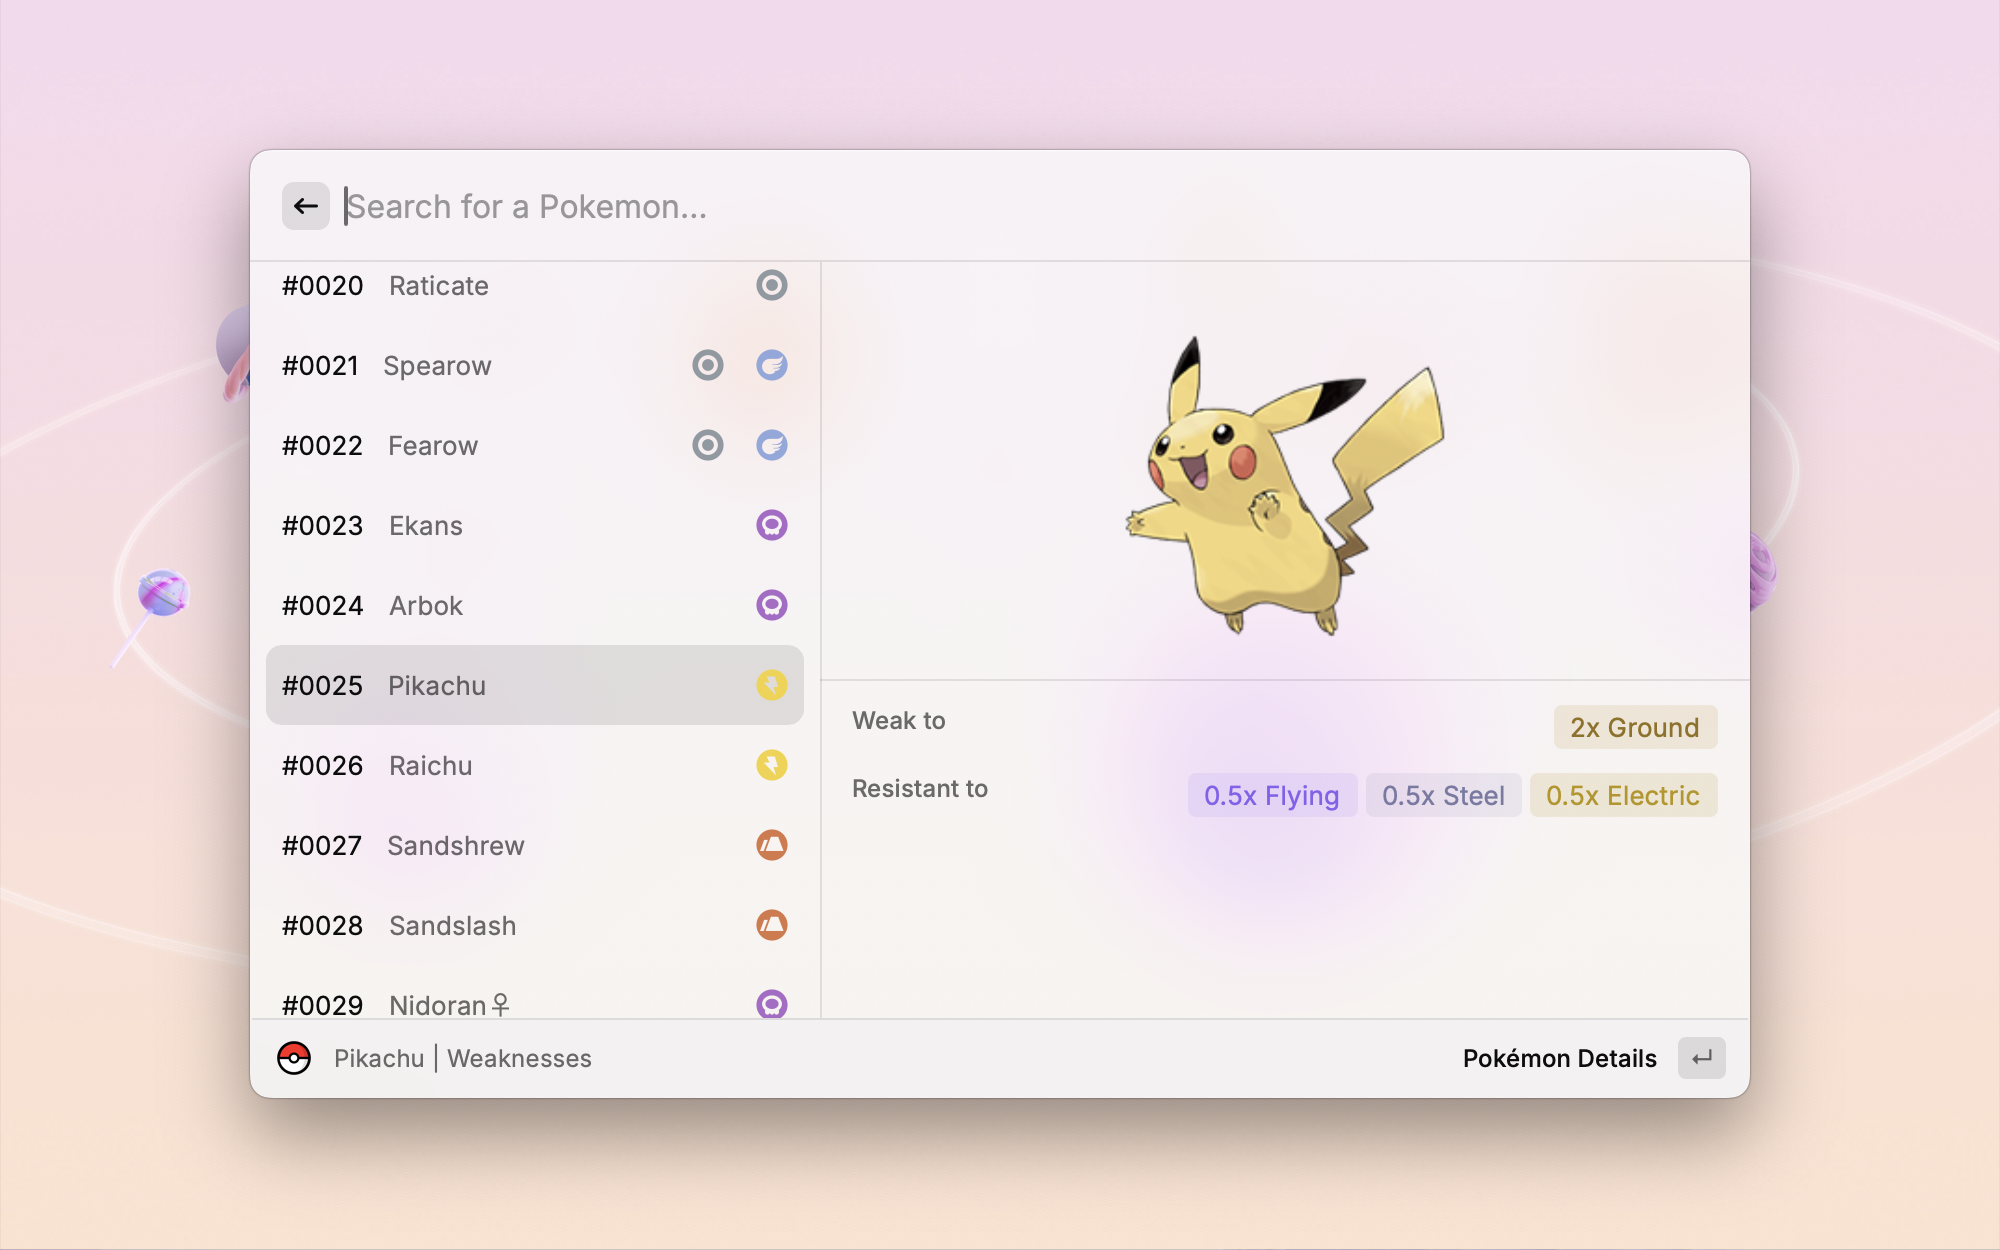
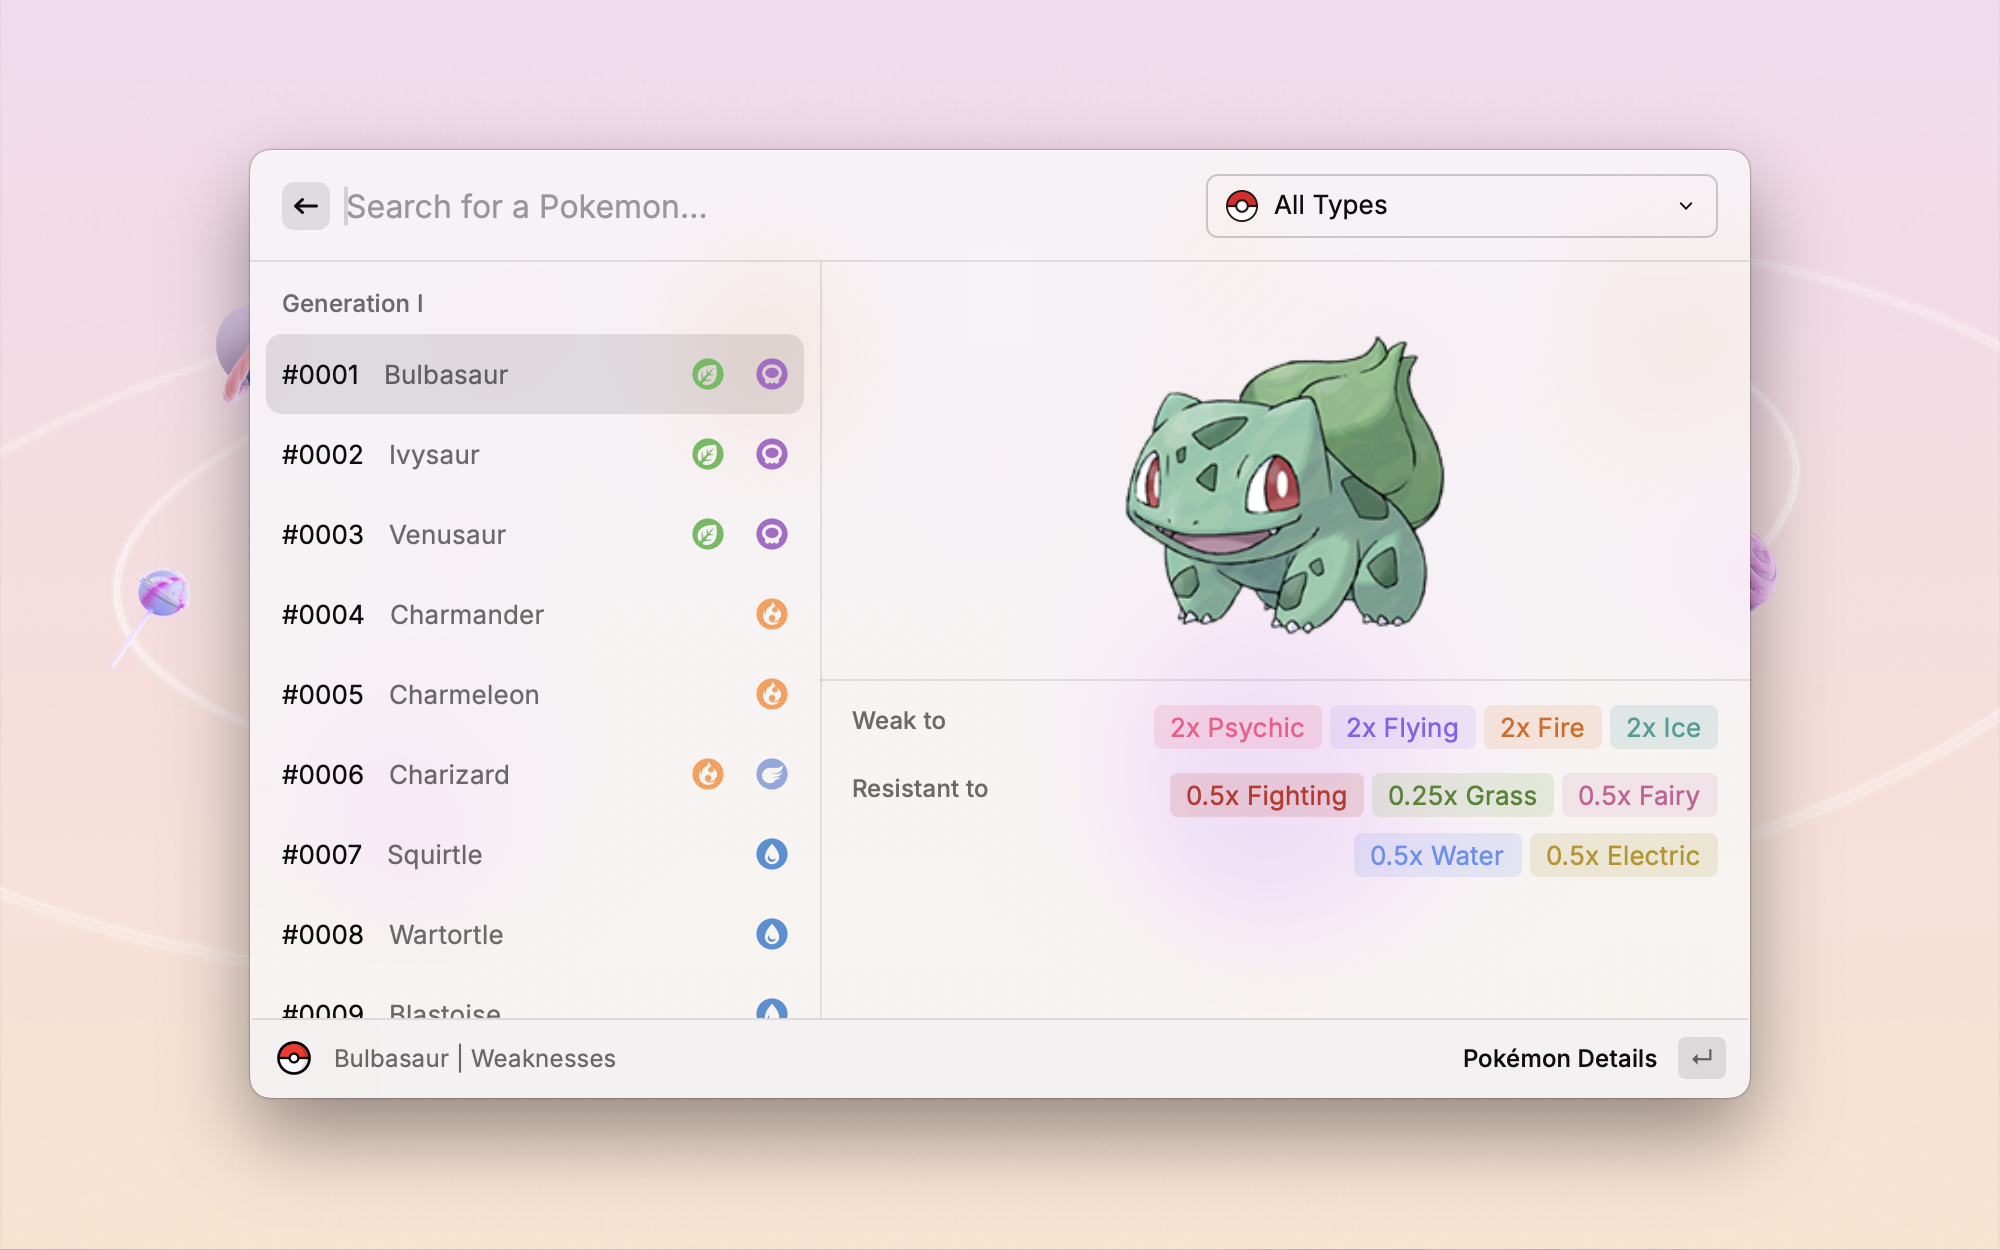
fix: add type filter for weakness

diff --git a/src/weakness.tsx b/src/weakness.tsx
@@ -6,7 +6,7 @@ import {
   getPreferenceValues,
 } from "@raycast/api";
 import json2md from "json2md";
-import { useEffect, useState, useCallback } from "react";
+import { useEffect, useState, useCallback, useMemo } from "react";
 import { getPokemon } from "./api";
 import { PokemonV2Pokemon } from "./types";
 import PokemonDetail from "./components/detail";
@@ -14,6 +14,7 @@ import pokedex from "./statics/pokedex.json";
 import debounce from "lodash.debounce";
 import groupBy from "lodash.groupby";
 import { calculateEffectiveness, typeColor } from "./utils";
+import TypeDropdown from "./components/type_dropdown";
 
 export default function PokemonWeaknesses(props: { id: number }) {
   const { language } = getPreferenceValues();
@@ -21,6 +22,8 @@ export default function PokemonWeaknesses(props: { id: number }) {
     undefined,
   );
   const [loading, setLoading] = useState(true);
+  const [type, setType] = useState<string>("all");
+
   const [effectiveness, setEffectiveness] = useState<{
     normal: string[];
     weak: string[];
@@ -53,7 +56,13 @@ export default function PokemonWeaknesses(props: { id: number }) {
       });
   }, [selectedPokemonId]);
 
-  const displayWeaknesses = Object.entries(groupBy(pokedex, "generation")).map(
+  const pokemons = useMemo(() => {
+    return type != "all"
+      ? pokedex.filter((p) => p.types.includes(type))
+      : pokedex;
+  }, [type]);
+
+  const displayWeaknesses = Object.entries(groupBy(pokemons, "generation")).map(
     ([generation, pokemonList]) => {
       return (
         <List.Section title={generation} key={generation}>
@@ -164,6 +173,9 @@ export default function PokemonWeaknesses(props: { id: number }) {
     <List
       throttle
       searchBarPlaceholder="Search for a Pokemon"
+      searchBarAccessory={
+        <TypeDropdown type="grid" command="Pokémon" onSelectType={setType} />
+      }
       navigationTitle={`${loading ? "" : pokemonName + " | "}Weaknesses`}
       isShowingDetail={true}
       isLoading={loading}

diff --git a/CHANGELOG.md b/CHANGELOG.md
@@ -3,6 +3,9 @@
 ## [Improvements] - 2024-09-14
 - Added Weaknesses command
 
+## [Improvements] - 2024-05-17
+- Fixed a coding issue with the Learnsets action
+
 ## [Improvements] - 2024-02-27
 - Added more Gen 9 Pokémons
 
@@ -11,13 +14,13 @@
 
 ## [Improvements] - 2022-06-16
 
-- Using new Grid layout
-- Using new list item metadata
+- Implemented a new Grid layout
+- Used new list item metadata
 
 ## [Improvements] - 2022-03-12
 
-- Added type filter, split view for Moves
-- Added SVG icon for better render
+- Added type filter and split view for Moves
+- Added SVG icons for better rendering
 - Added changelog
 
 ## [Improvements & Fixes] - 2022-03-10
@@ -29,13 +32,13 @@
 
 ## [Improvements] - 2022-03-02
 
-898 Pokémon Species with all alternate forms including Regional forms (Alolan, Galarian), Mega Evolution, Gigantamax
 
+- Added 898 Pokémon Species with all alternate forms, including Regional forms (Alolan, Galarian), Mega Evolution, and Gigantamax
 - Added more Pokémon details: Training, Breeding, Forms
-- Added Pokémon type icon
-- Added Pokémon details by prefered language. Supported: English (default), French, German, Italian, Japanese, Korean, Spanish
+- Added Pokémon type icons
+- Added Pokémon details in preferred languages: English (default), French, German, Italian, Japanese, Korean, Spanish
 - Fixed extension icon
 
 ## [Initial Version] - 2022-02-18
 
-- Added Pokédex
+- Launched the Pokédex extension with basic Pokémon information and search functionality
